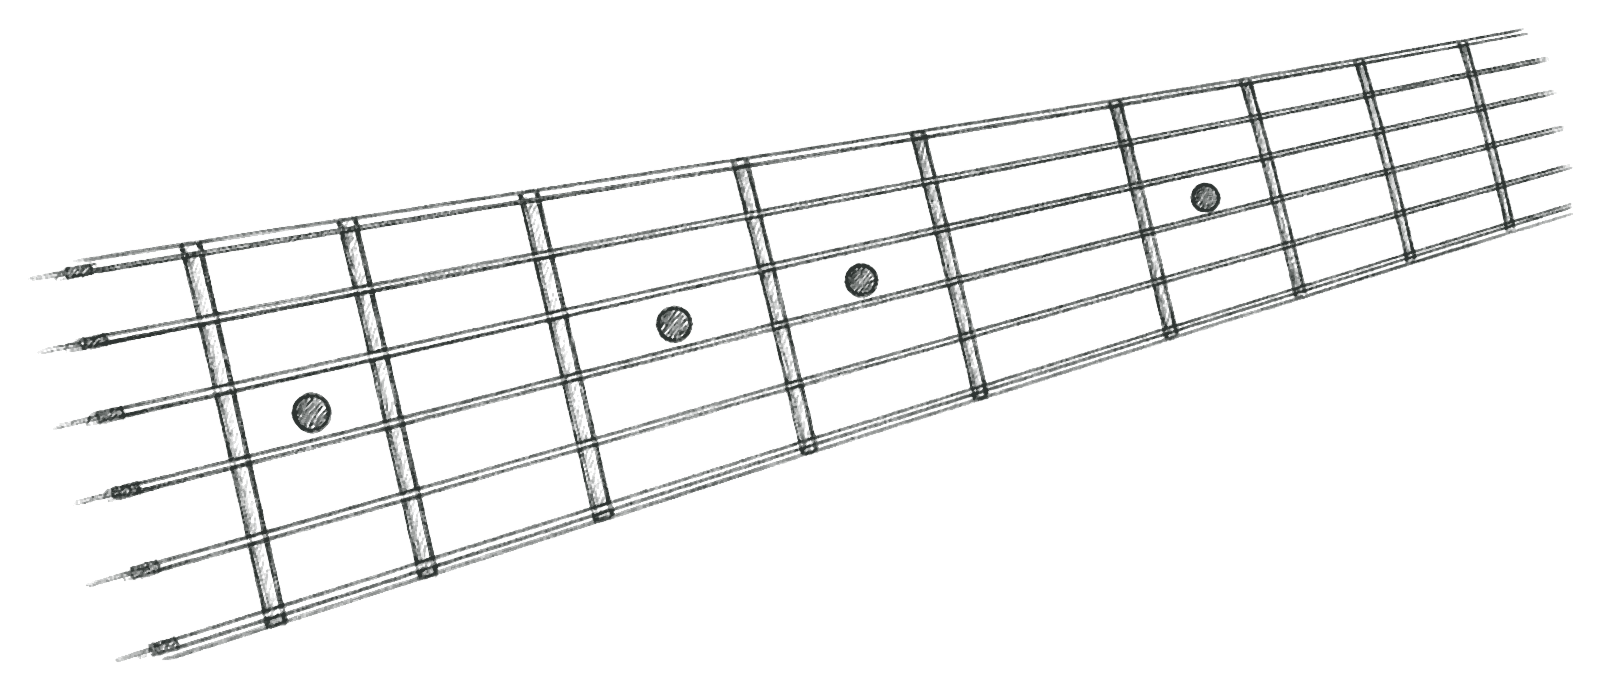
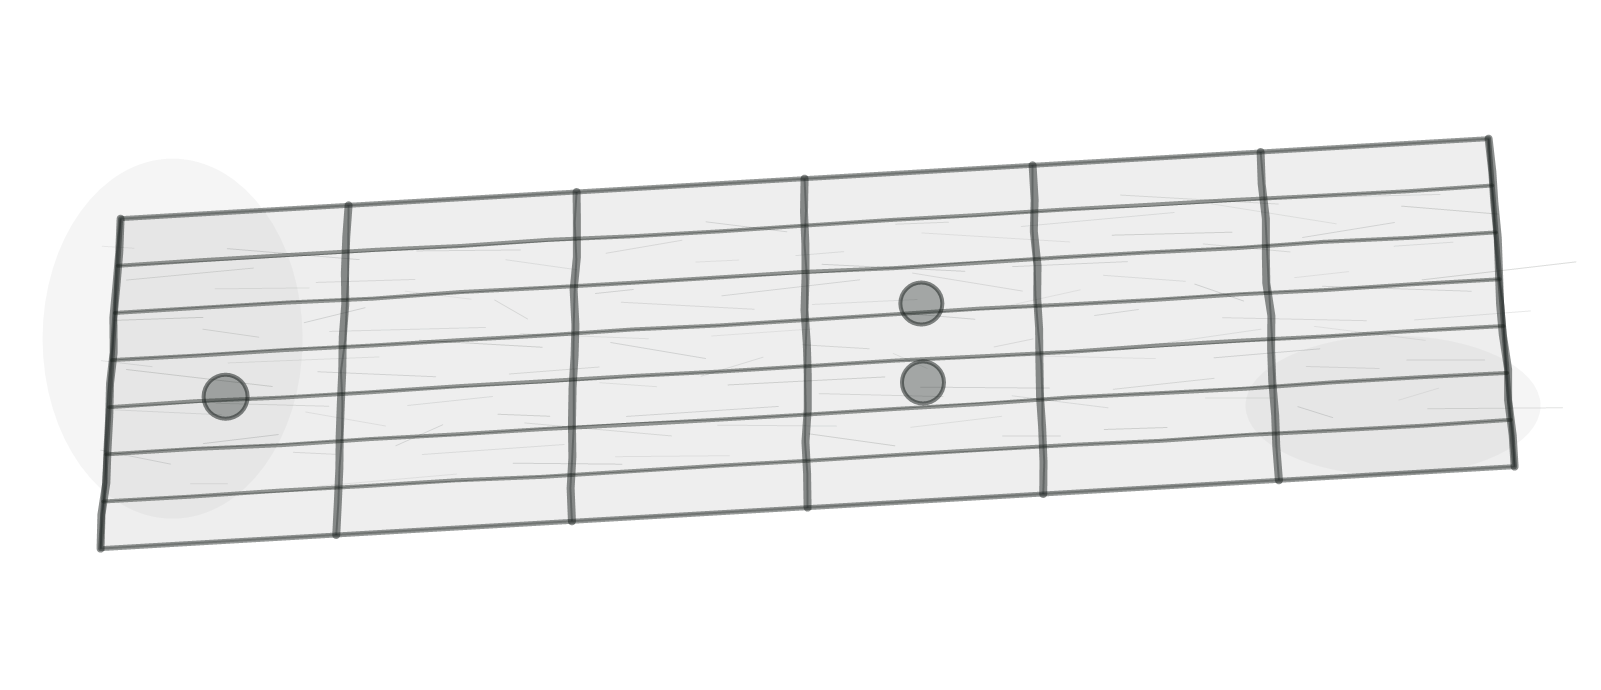
vibe-fixes

Changed region(s): [[0.0312, 0.0304, 0.9994, 0.9739]]

diff --git a/pages/index.tsx b/pages/index.tsx
@@ -996,7 +996,7 @@ export default function HomePage() {
                 <h1 className="hero-title">Convert Any Song to Tabs</h1>
               </div>
               <p className="hero-subtitle hero-subtitle--conversion">
-                Turn recordings into editable guitar tab you can clean up, practice, and export.
+                Turn recordings into editable guitar tab you can edit, practice, and export.
               </p>
             </div>
             <form
@@ -1337,7 +1337,7 @@ export default function HomePage() {
             <div className="pricing-intro" data-reveal>
               <span className="pill">Plans</span>
               <h2>Start small. Upgrade for full songs.</h2>
-              <p>Free handles quick checks. Premium removes the short-clip ceiling.</p>
+              <p>Try out our transcriber and editor, upgrade if you like it.</p>
             </div>
             <div className="pricing-grid">
               <div className="pricing-card pricing-card--free" data-reveal>
@@ -1357,6 +1357,8 @@ export default function HomePage() {
                   <li>Upload size: 50 MB</li>
                   <li>YouTube length: 30s</li>
                   <li>Standard speed</li>
+                  <li>Full acsess to our guitar-tab editor</li>
+
                 </ul>
               </div>
               <button